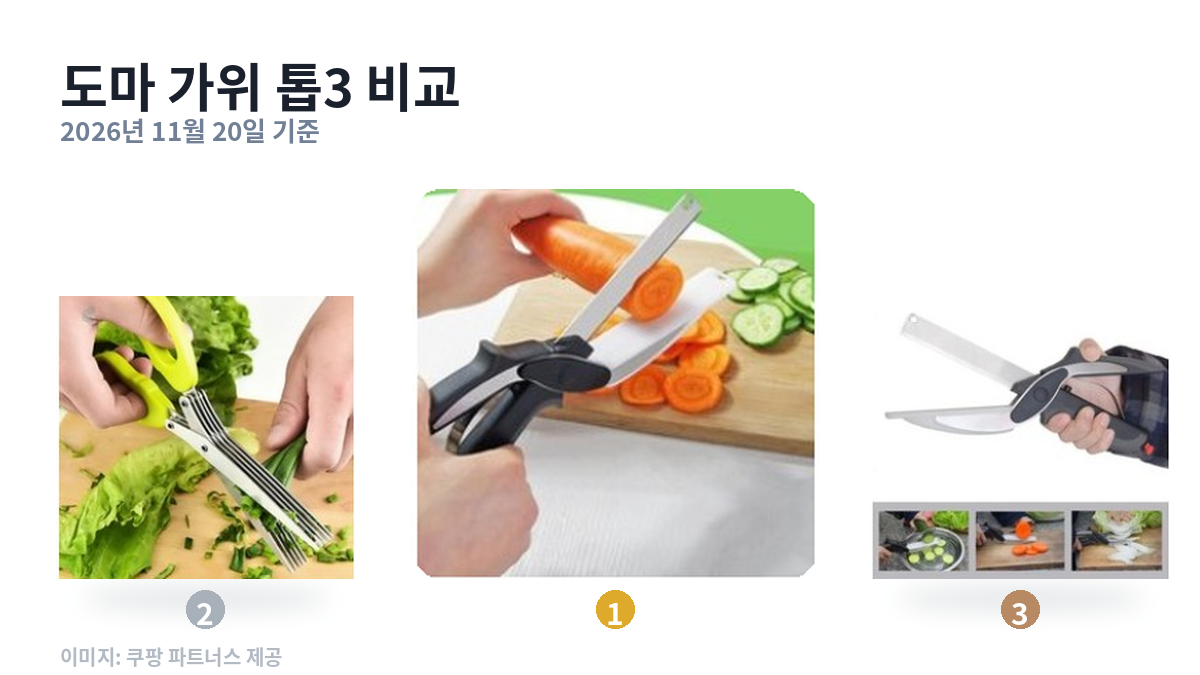
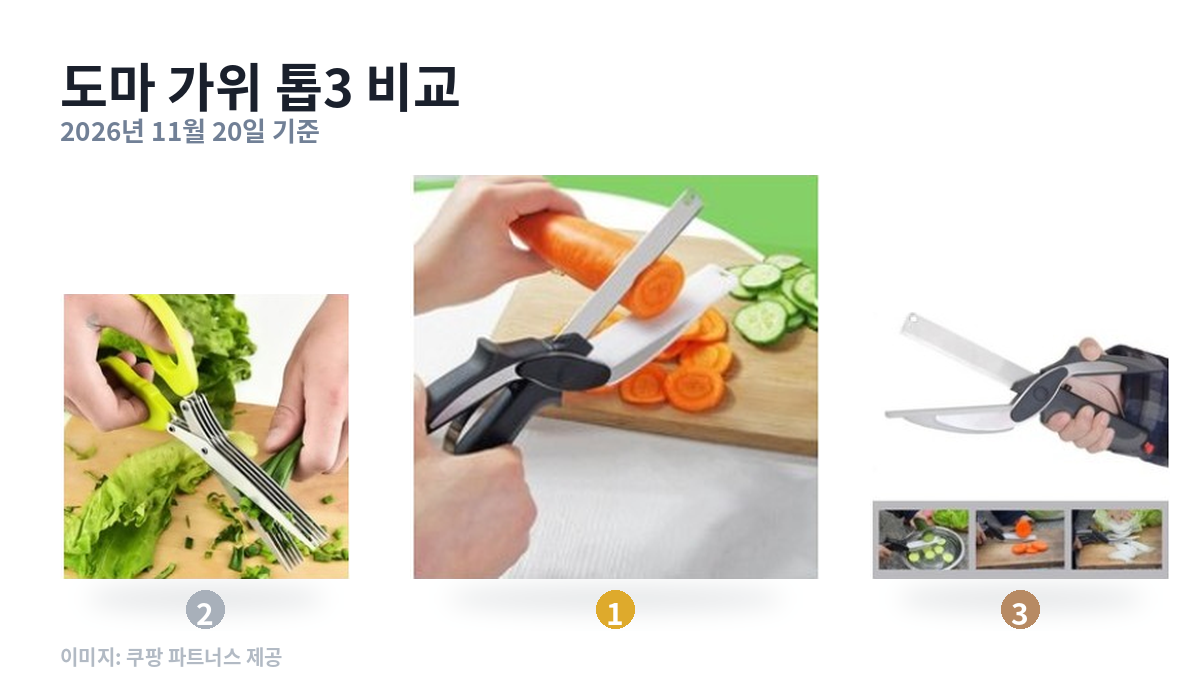
잘린 글자를 없앤다 — 고정 비율 대신 여백 줄을 찾아 자른다
사용자 지적(11/22): "1등 보면 글자가 잘려 있어 이러면 보기가 불편해"

재 보니 고정 위 경계 0.165 가 사진이 시작되는 자리(약 0.15)보다 **아래**였다.
배너 세 종의 0.165 줄 내용 비율:
  계량스푼 1위 0.84 · 도마가위 1위 0.93 (둘 다 내용 한가운데를 지난다)
  디스펜서 1위 0.01 (여백이라 티가 안 났다)
480px 기준 5~7px 을 날려, 가장자리까지 꽉 찬 상세컷만 글자가 잘렸던 것이다.

photo_band() 를 두어 로고 아래(0.115)부터 상품명 위(0.655)까지 훑고
내용이 시작·끝나는 줄을 찾는다. 배너마다 사진 크기가 달라도 사진만 잡힌다.
탐지에 실패하면 옛 비율로 떨어진다.
  계량스푼 0.154~0.617 · 도마가위 0.150~0.617 · 디스펜서 0.179~0.604

부제 날짜도 오늘이 아니라 **가격을 확인한 날**(products.json 의 price_at)을 쓴다.
오늘로 찍으면 확인하지 않은 날짜가 글에 박힌다 — 11/22 에 11/20 가격이 그렇게 나왔다.

Claude-Session: https://claude.ai/code/session_011yCp6J6rwZWhFQvanGirwe

diff --git a/scripts/make_featured.py b/scripts/make_featured.py
@@ -131,10 +131,36 @@ def compose(title, shots, sub, lines_right=None):
 SHOT_TOP, SHOT_BOT = 0.165, 0.615
 
 
+def photo_band(im):
+    """배너에서 상품 사진이 실제로 차지하는 세로 구간을 찾는다.
+
+    2026-11-22 사용자 지적("1등 보면 글자가 잘려 있어")으로 재 보니, 고정 비율의
+    위 경계 0.165 가 사진이 시작되는 자리(약 0.15)보다 **아래**였다. 실측:
+      계량스푼 1위 0.165 줄의 내용 비율 0.84 · 도마가위 1위 0.93 (한가운데를 지난다)
+      디스펜서 1위 0.01 (여백이라 티가 안 났다)
+    480px 기준 약 7px 을 날려, 가장자리까지 꽉 찬 상세컷만 글자가 잘렸다.
+    그래서 비율로 자르지 않고, 로고 아래부터 상품명 위까지 훑어 **내용이 시작되고
+    끝나는 줄**을 찾는다. 배너마다 사진 크기가 달라도 사진만 정확히 잡힌다.
+    """
+    h = im.size[1]
+    try:
+        import numpy as np
+        a = np.asarray(im.convert("L"), dtype=float)
+        ink = (a < 238).mean(axis=1)
+        lo, hi = int(h * 0.115), int(h * 0.655)     # 로고 아래 ~ 상품명 위
+        idx = np.where(ink[lo:hi] > 0.02)[0]
+        if len(idx) >= 5:
+            return max(0, lo + int(idx[0]) - 2), min(h, lo + int(idx[-1]) + 3)
+    except Exception:
+        pass
+    return int(h * SHOT_TOP), int(h * SHOT_BOT)     # 못 찾으면 옛 비율로
+
+
 def crop_shot(im):
     """배너에서 상품 사진 영역만 떼고, 둘레의 흰 여백을 잘라낸다."""
     w, h = im.size
-    box = im.crop((0, int(h * SHOT_TOP), w, int(h * SHOT_BOT)))
+    top, bot = photo_band(im)
+    box = im.crop((0, top, w, bot))
     # 배너 바깥 테두리선을 먼저 깎는다. 11/20 실측: 좌우 맨 1열의 평균 밝기가 224 이고
     # 그 안쪽은 254~255 였다. 이 선을 남기면 ①비백색으로 잡혀 여백 제거가 통째로 빗나가고
     # ②테두리 흰색 비율이 0.52 로 떨어져 흰 배경 판정이 깨진다. 둘 다 "잘린 자국"으로 보인다.
@@ -312,7 +338,14 @@ def main():
         today = dt.date.today()
         # 2026-11-20 사용자 지시로 대표 이미지에서 가격을 뺐다. 상품만 보이게 한다.
         # 가격은 본문 상품 카드에 날짜와 함께 적혀 있다.
-        asof = f"{today.year}년 {today.month}월 {today.day}일 기준"
+        # 날짜는 **오늘이 아니라 가격을 확인한 날**을 쓴다. 오늘로 찍으면 확인하지 않은
+        # 날짜가 글에 박힌다(11/22 실측 — 가격은 11/20 에 본 값인데 11/22 로 나왔다).
+        seen = sorted({e.get("price_at") for e, _ in pairs if e.get("price_at")})
+        if seen:
+            y, m, dd = (seen[-1].split("-") + ["", "", ""])[:3]
+            asof = f"{y}년 {int(m)}월 {int(dd)}일 기준"
+        else:
+            asof = f"{today.year}년 {today.month}월 {today.day}일 기준"
         shots = [im for _, im in pairs]
 
         p1 = os.path.join(OUT, base + ".png")
